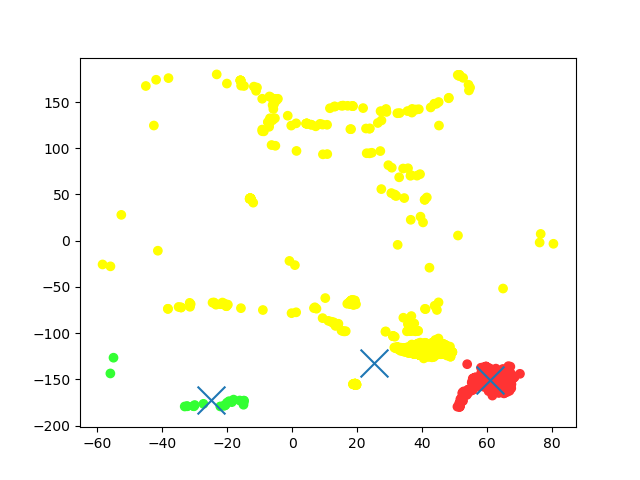
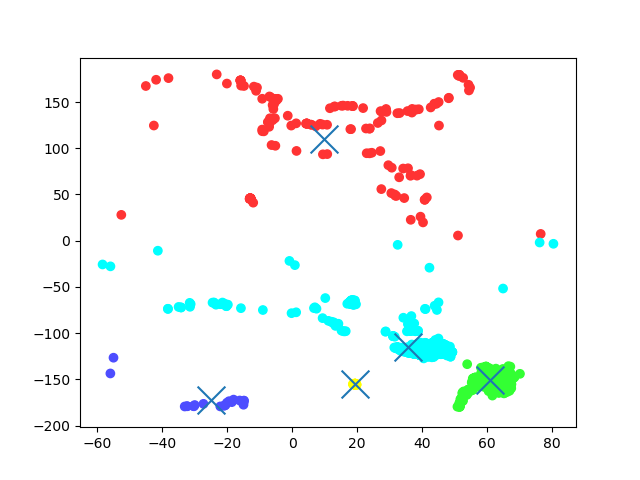
web.config3.4

diff --git a/main.py b/main.py
@@ -1,11 +1,21 @@
 from flask import Flask, render_template, request, redirect, url_for, send_from_directory
-import pypyodbc
+
 #import sqlite3 as sql
-# import pyodbc
+import matplotlib
+matplotlib.use('Agg')
+import matplotlib.pyplot as plt
+import numpy as np
+import uuid
+from numpy import vstack, array
+from scipy.cluster.vq import *
+from datetime import datetime
+from datetime import timedelta
 import csv
 import os
+import pypyodbc
+# import pyodbc
 
-app = Flask(__name__)
+app = Flask(__name__,template_folder="templates")
 
 import sqlite3
 
@@ -15,24 +25,36 @@ database = 'ilwin'
 username = 'ilwin'
 password = 'esxi@S5n'
 driver = '{SQL Server}'
+
 cnxn = pypyodbc.connect("Driver={ODBC Driver 13 for SQL Server};"
                         "Server=tcp:ilwin.database.windows.net;Database=ilwin;Uid=ilwin;Pwd=esxi@S5n;")
 # cnxn = pyodbc.connect(
 #     'DRIVER=' + driver + ';PORT=1433;SERVER=' + server + ';PORT=1443;DATABASE=' + database + ';UID=' + username + ';PWD=' + password)
 cursor = cnxn.cursor()
 
-
+mylist = []
 
 @app.route('/')
 def home():
-
    return render_template('index.php')
 
-@app.route('/enternew')
-def new_student():
-   return render_template('student.html')
 
 
+@app.route('/cluster')
+def cluster():
+    return render_template('cluster.html')
+
+
+@app.route('/UI')
+def UI():
+    return render_template('view.html')
+
+
+
+@app.route('/earthquake')
+def earthquake():
+
+   return render_template('view2.html')
 
 
 @app.route('/uploadCSV',methods=['POST'])
@@ -48,137 +70,210 @@ def uploadCSV():
         reader = csv.reader(f)
         columns = next(reader)
         print(columns)
-        query = 'insert into quizone ({0}) values ({1})'
+        query = 'insert into EarthquakeTwo ({0}) values ({1})'
         query = query.format(','.join(columns), ','.join('?' * len(columns)))
 
         for data in reader:
             cursor.execute(query, data)
-
-        cursor.commit()
+            cursor.commit()
 
         m = os.path.getsize(newfiledest)
 
         return render_template('index.php', variable=m)
 
 
-@app.route('/show', methods=['POST'])
-def show():
+@app.route('/addrec', methods=['POST', 'GET'])
+def addrec():
+    # print("here")
+
     if request.method == 'POST':
+        # print("inside")
+        query = "select count(*) from EarthquakeTwo where mag > 5.0"
+        print(query)
+        cursor.execute(query)
+        result=cursor.fetchone()
+        print("code here")
+        print(result)
+        value=result[0]
+        print(value)
 
-        file = request.files['imageFile']
+        return render_template("View.html", msg=value)
 
-        print("image file "+file.filename)
-        destination = os.path.join(os.path.dirname(os.path.abspath(__file__)))
-        newfiledest = "/".join([destination+"/static", file.filename])
-        file.save(newfiledest)
-        m=os.path.getsize(newfiledest)
-        print(m)
-        sep = '.'
-        name=file.filename.split(sep,1)[0]
-        print(name)
-        print(newfiledest)
-        #cursor.execute('UPDATE pic SET IMGSRC = ? WHERE name = ?', (newfiledest,name))
-        #cursor.execute("UPDATE pic SET picture = 'abc' WHERE name='Nora'")
-        # query = "insert into im VALUES('" + name + "','" + newfiledest+ "');"
-        # print (query)
-        # cursor.execute(query)
-        # cursor.commit
-
-        # in_file = open(newfiledest, "rb")  # opening for [r]eading as [b]inary
-        # data = in_file.read()  # if you only wanted to read 512 bytes, do .read(512)
-        # in_file.close()
-        #sql = "update pic set picture = ? where name= 'Nora'"
-        #cursor.execute(sql, (pyodbc.Binary(data),))
-        #cursor.commit()
-
-
-    return render_template('index.php')
-
-
-@app.route('/name')
-def vehicle():
-    return render_template('names.php')
-
-
-
-
-
-@app.route('/search', methods=['POST'])
+@app.route('/search', methods=['GET', 'POST'])
 def search():
-    if request.method == 'POST':
-        result = []
-        courceNo = request.form['courceNo']
-        day = request.form['day']
-        print(courceNo)
-        #cursor.execute("select room from pic WHERE vehicle=?", (vehicleName,))
-        # cursor.execute("select room,picture from pic WHERE vehicle='Car'")
-        cursor.execute("select Instructor from quizone where Course=? and Dayss = ?", (courceNo,day))
-
+   if request.method == 'POST':
+        range1 = request.form['range1']
+        range2 = request.form['range2']
+        duration1 = request.form['length']
+        if duration1=="day":
+            length=datetime.now()-timedelta(days=1)
+        if duration1=="week":
+            length=datetime.now()-timedelta(days=7)
+        if duration1=="month":
+            length=datetime.now()-timedelta(days=30)
+        cursor.execute("select mag,latitude,longitude from earthquaketwo where (mag between "+range1+" and "+range2+") and timee > ?", (length,))
         rows = cursor.fetchall()
-        return render_template("list.html", rows=rows)
+        for row in rows:
+             print(row)
+        return render_template('View.html', rows = rows)
 
-# @app.route('/uploadCSV',methods=['POST'])
-# def uploadCSV():
-#     file = request.files['file']
-#     print(file.filename)
-#
-#     with sql.connect("practiceQuiz.db") as con:
-#         cur = con.cursor()
-#
-#         cur.execute("delete from quiz1")
-#
-#         con.commit()
-#
-#     #######
-#     destination = os.path.join(os.path.dirname(os.path.abspath(__file__)))
-#     newfiledest = "/".join([destination, file.filename])
-#     file.save(newfiledest)
-#     #######
-#
-#     with open(file.filename, encoding='ISO-8859-1') as f:
-#
-#         reader = csv.reader(f)
-#         columns = next(reader)
-#         print(columns)
-#         #query = 'insert into Picture ({0}) values ({1})'
-#         query = 'insert into quiz1 ({0}) values ({1})'
-#         query = query.format(','.join(columns), ','.join('?' * len(columns)))
-#
-#         #with sql.connect("imageDB.db") as con:
-#         with sql.connect("practiceQuiz.db") as con:
-#            cur = con.cursor()
-#
-#         for data in reader:
-#             cur.execute(query, data)
-#
-#             con.commit()
-#         print('success')
-#         return render_template('index.php')
-#
-# @app.route('/show', methods=['POST'])
-# def show():
-#     if request.method == 'POST':
-#
-#         file = request.files['imageFile']
-#
-#         print("image file "+file.filename)
-#         destination = os.path.join(os.path.dirname(os.path.abspath(__file__)))
-#         newfiledest = "/".join([destination, file.filename])
-#         file.save(newfiledest)
-#         m=os.path.getsize(newfiledest)
-#         print(m)
-#
-#
-#     return render_template('index.php', variable=m)
 
-@app.route('/list')
-def list():
 
-    cursor.execute("select * from pic")
+@app.route('/searchTwo', methods=['GET', 'POST'])
+def searchTwo():
+   if request.method == 'POST':
+        latitude = request.form['latitude']
+        longitude = request.form['longitude']
 
-    rows = cursor.fetchall()
-    return render_template("list.html", rows=rows)
 
+        query=("select top 20 mag,latitude,longitude, "
+                       "111.045* DEGREES(ACOS(COS(RADIANS(latpoint))"
+                       "* COS(RADIANS(latitude))"
+                       "* COS(RADIANS(longpoint) - RADIANS(longitude))"
+                       "+ SIN(RADIANS(latpoint))"
+                       "* SIN(RADIANS(latitude)))) AS distance_in_km "
+                       "from earthquaketwo "
+                       "JOIN ("
+                       "SELECT  "+latitude+" AS latpoint, "+longitude+" AS longpoint"
+                       ") AS p ON 1=1 "
+                       "ORDER BY distance_in_km")
+        print(query)
+        cursor.execute(query)
+        rows = cursor.fetchall()
+        for row in rows:
+             print(row)
+        return render_template('view2.html', rows = rows)
+
+
+
+@app.route('/kmeans', methods=['GET', 'POST'])
+def main():
+
+        clusters = request.form['clusters']
+        K_clusters = int(clusters)
+
+        mylist = getdata()
+        data = []
+        cdist=[]
+        ab=[]
+        data = array(mylist)
+        cent, pts = kmeans2(data,K_clusters)
+
+        disCluster = []
+        for i in range(len(cent)):
+            x1 = cent[i][0]
+            y1 = cent[i][1]
+            x1 = float("{0:.3f}".format(x1))
+            y1 = float("{0:.3f}".format(y1))
+
+            ab=(x1,y1)
+            for j in range(i+1,len(cent)):
+                dc = {}
+                x2 = cent[j][0]
+                y2 = cent[j][1]
+                x2 = float("{0:.3f}".format(x2))
+                y2 = float("{0:.3f}".format(y2))
+                dist = np.sqrt((x1-x2)*2 + (y1-y2)*2)
+                cdist.append(dist)
+                dc['dist'] = "Distance between cluster " + str(i) + " and cluster " + str(j) + " is: " + str(dist)
+                disCluster.append(dc)
+                print (disCluster)
+                print ("Distance between cluster " + str(i) + " and cluster " + str(j) + " is: " + str(dist))
+        clr = ([1, 1, 0.0],[0.2,1,0.2],[1,0.2,0.2],[0.3,0.3,1],[0.0,1.0,1.0],[0.6, 0.6,0.1],[1.0,0.5,0.0],[1.0,	0.0, 1.0],[0.6,	0.2, 0.2],[0.1,0.6,0.6],[0.0,0.0,0.0],[0.8,1.0,1.0],[0.70,0.50,0.50],[0.5,0.5,0.5],[0.77,0.70,0.00])
+        colors = ([(clr)[i] for i in pts])
+        clr_dict = {"yellow":0,"green":0,"red":0,"blue":0,"cyan":0}
+        pdict=[]
+
+        for x in colors:
+            if str(x) == "[1, 1, 0.0]":
+                clr_dict["yellow"] += 1
+            if str(x) == "[0.2, 1, 0.2]":
+                clr_dict["green"] += 1
+            if str(x) == "[1, 0.2, 0.2]":
+                clr_dict["red"] += 1
+            if str(x) == "[0.3, 0.3, 1]":
+                clr_dict["blue"] += 1
+            if str(x) == "[0, 1.0, 1.0]":
+                clr_dict["cyan"] += 1
+            if str(x) == "[0.6, 0.6,0.1]":
+                clr_dict["deepolive"] += 1
+            if str(x) == "[1.0,	0.5, 0.0]":
+                clr_dict["orange"] += 1
+            if str(x) == "[1.0,	0.0, 1.0]":
+                clr_dict["magenta"] += 1
+            if str(x) == "[0.6,	0.2, 0.2]":
+                clr_dict["ruby"] += 1
+            if str(x) == "[0.1,	0.6, 0.6]":
+                clr_dict["deepteal"] += 1
+            if str(x) == "[0.0,	0.0, 0.0]":
+                clr_dict["black"] += 1
+            if str(x) == "[0.8,	1.0, 1.0]":
+                clr_dict["palecyan"] += 1
+            if str(x) == "[0.70, 0.50,	0.50]":
+                clr_dict["dirtyviolet"] += 1
+            if str(x) == "[0.5,	0.5, 0.5]":
+                clr_dict["gray"] += 1
+            if str(x) == "[0.77, 0.70, 0.00]":
+                clr_dict["olive"] += 1
+
+
+        f_write='Cluster,Count\r\n'
+        cnt=0
+        print (clr_dict)
+        for i in clr_dict:
+            if clr_dict[i] == 0:
+                continue
+            string = str(cnt) + " : " + str(clr_dict[i])
+            pdict.append(string)
+            print ("No of points in cluster with " + str(i) + " is: " + str(clr_dict[i]))
+            f_write+= str(cnt)+','+str(clr_dict[i])+'\r\n'
+            cnt += 1
+        with open("templates/d3chart.csv",'wb') as nfile:
+            nfile.write(f_write.encode("utf-8"))
+        plt.scatter(data[:,0],data[:,1], c=colors)
+        plt.scatter(cent[:,0],cent[:,1], marker='o', s = 400, linewidths=3, c='none')
+        plt.scatter(cent[:,0],cent[:,1], marker='x', s = 400, linewidths=3)
+
+        plt.savefig("static/kmeans6.png")
+        plt.gcf().clear("static/kmeans6.png")
+        plt.clf()
+        plt.cla()
+        plt.close()
+
+        return render_template('cluster.html',cdist=cdist,pdict=pdict, disCluster = disCluster)
+
+def getdata():
+    query = "select latitude,longitude from EarthquakeTwo"
+
+    print(query)
+    cursor.execute(query)
+    result = cursor.fetchall()
+
+    for row in result:
+        pair=[]
+        # print(row)
+        # print(row[0])
+        # print(row[1])
+        x = float(row[0])
+        y = float(row[1])
+        pair.append(x)
+        pair.append(y)
+        mylist.append(pair)
+    return mylist
+
+
+@app.route('/show', methods=['GET', 'POST'])
+def show():
+    print('hit show')
+    return render_template('show.html')
+
+@app.route('/Bargraph', methods=['GET', 'POST'])
+def bargraph():
+  return render_template('d3barchart.html')
+
+@app.route('/Piegraph', methods=['GET', 'POST'])
+def Piegraph():
+  return render_template('d3piechart.html')
 
 
 if __name__ == '__main__':
